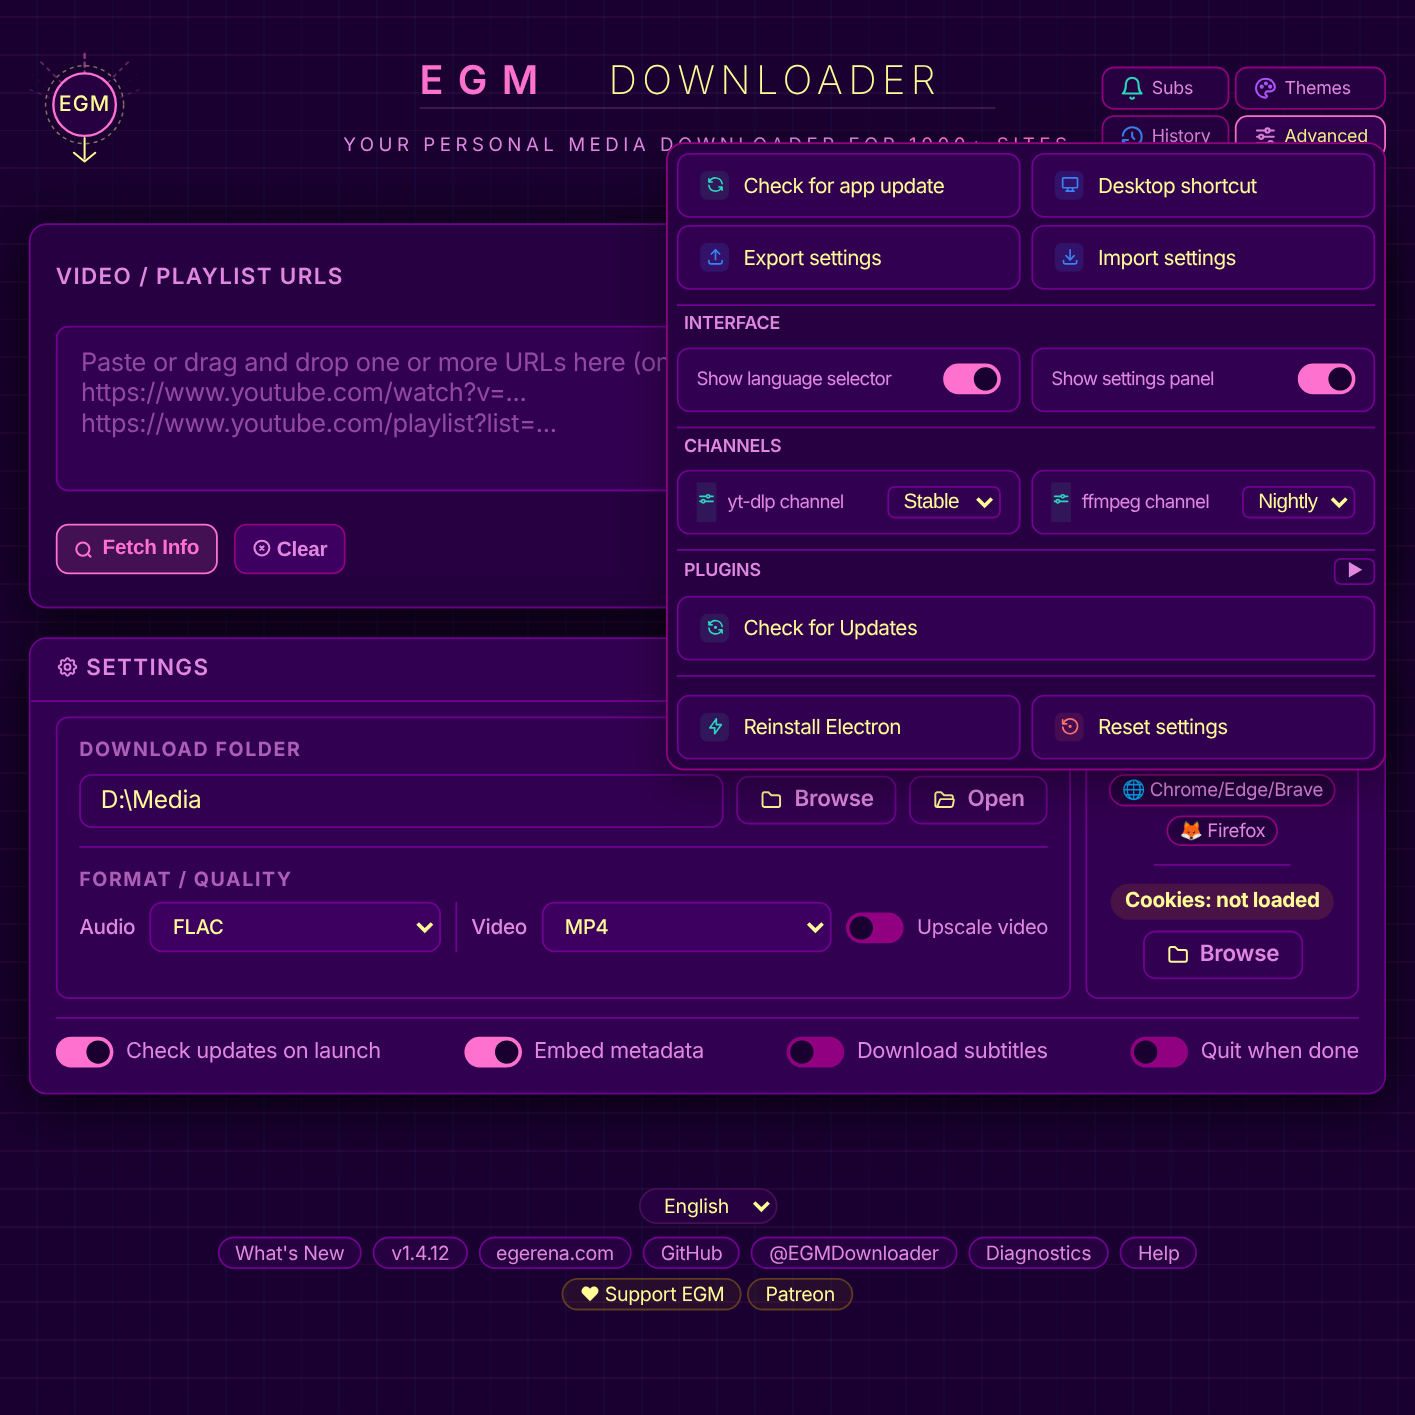
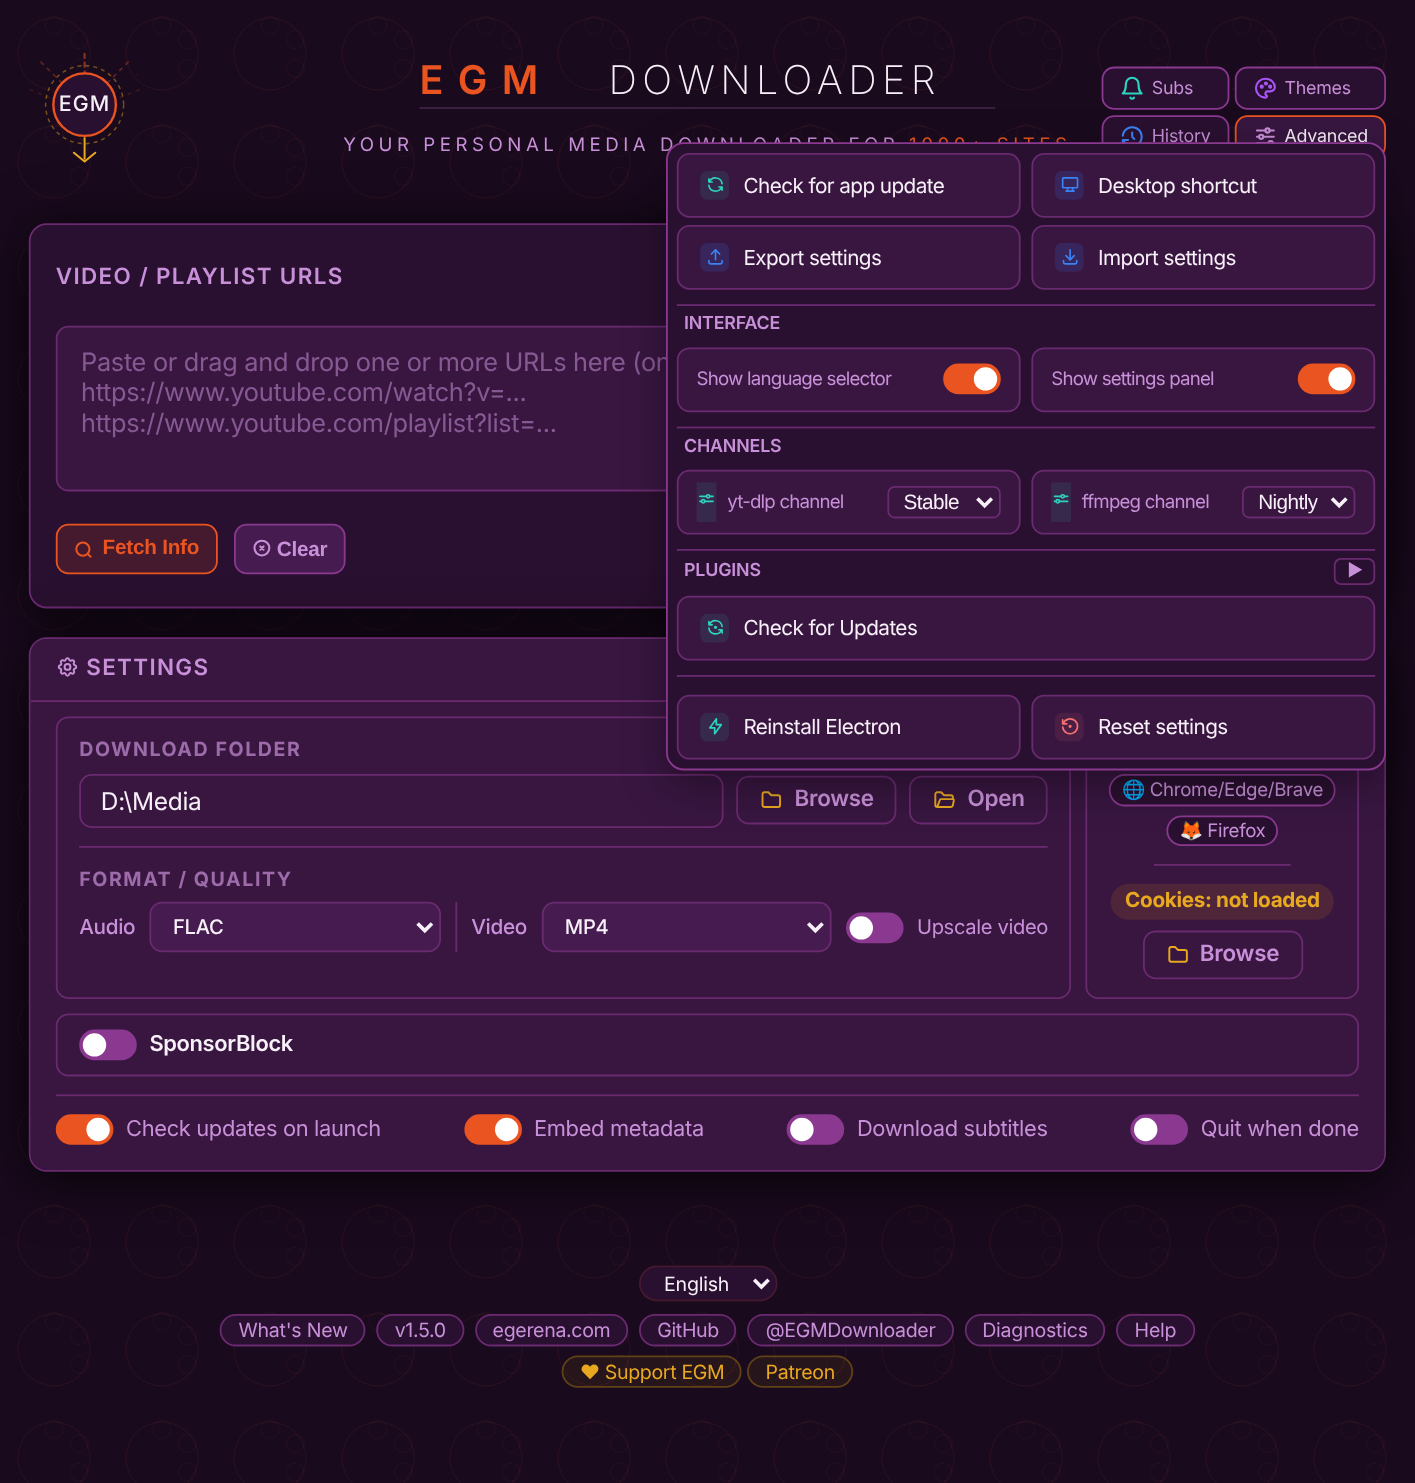
docs: README screenshots updated for v1.5.0 on testing/v1.5
Six new pictures of v1.5.0 in the same layout: main UI, advanced panel,
all themes, subscriptions, the advanced panel with the plugins list and the
download history, each in a different theme (Halloween, Ubuntu, Dialup,
Matcha, Arch Linux, Velvet Rose). They show the SponsorBlock switches in the
main window and in a subscription. The splash screen is unchanged. The
caption names the version only and the theme labels follow the pictures.

Changed region(s): [[0.0, 0.0, 0.9951, 0.9951]]

diff --git a/README.md b/README.md
@@ -83,7 +83,7 @@ A side by side look at one well known alternative, using details you can check y
 
 ## 🖼 Screenshots
 
-> 📸 *Screenshots of v1.4.12, ELECTRON STRIKES BACK. The UI is identical across Windows, macOS, and Linux.*
+> 📸 *Screenshots of v1.5.0. The UI is identical across Windows, macOS, and Linux.*
 
 <table>
   <tr>
@@ -92,12 +92,12 @@ A side by side look at one well known alternative, using details you can check y
       <br/><sub><b>Splash Screen</b></sub>
     </td>
     <td align="center" width="33%">
-      <a href="screenshots/02-main-ui.png"><img src="screenshots/02-main-ui.png" width="260" alt="Main UI, Coral Reef Light theme"/></a>
-      <br/><sub><b>Main UI</b> (Coral Reef Light theme)</sub>
+      <a href="screenshots/02-main-ui.png"><img src="screenshots/02-main-ui.png" width="260" alt="Main UI, Halloween theme"/></a>
+      <br/><sub><b>Main UI</b> (Halloween theme)</sub>
     </td>
     <td align="center" width="33%">
-      <a href="screenshots/03-advanced-panel.png"><img src="screenshots/03-advanced-panel.png" width="260" alt="Advanced Panel, Vaporwave theme"/></a>
-      <br/><sub><b>Advanced Panel</b> (Vaporwave theme)</sub>
+      <a href="screenshots/03-advanced-panel.png"><img src="screenshots/03-advanced-panel.png" width="260" alt="Advanced Panel, Ubuntu theme"/></a>
+      <br/><sub><b>Advanced Panel</b> (Ubuntu theme)</sub>
     </td>
   </tr>
 </table>
@@ -105,12 +105,12 @@ A side by side look at one well known alternative, using details you can check y
 <table>
   <tr>
     <td align="center" width="50%">
-      <a href="screenshots/04-all-themes.png"><img src="screenshots/04-all-themes.png" width="400" alt="All Themes, Amiga theme"/></a>
-      <br/><sub><b>All Themes</b> (Amiga theme)</sub>
+      <a href="screenshots/04-all-themes.png"><img src="screenshots/04-all-themes.png" width="400" alt="All Themes, Dialup theme"/></a>
+      <br/><sub><b>All Themes</b> (Dialup theme)</sub>
     </td>
     <td align="center" width="50%">
-      <a href="screenshots/05-subscriptions.png"><img src="screenshots/05-subscriptions.png" width="400" alt="Subscriptions, Big Sur theme"/></a>
-      <br/><sub><b>Subscriptions</b> (Big Sur theme)</sub>
+      <a href="screenshots/05-subscriptions.png"><img src="screenshots/05-subscriptions.png" width="400" alt="Subscriptions, Matcha theme"/></a>
+      <br/><sub><b>Subscriptions</b> (Matcha theme)</sub>
     </td>
   </tr>
 </table>
@@ -118,12 +118,12 @@ A side by side look at one well known alternative, using details you can check y
 <table>
   <tr>
     <td align="center" width="50%">
-      <a href="screenshots/06-advanced-plugins.png"><img src="screenshots/06-advanced-plugins.png" width="324" alt="Advanced Panel with the plugins list, Aurora theme"/></a>
-      <br/><sub><b>Advanced Panel, Plugins</b> (Aurora theme)</sub>
+      <a href="screenshots/06-advanced-plugins.png"><img src="screenshots/06-advanced-plugins.png" width="308" alt="Advanced Panel with the plugins list, Arch Linux theme"/></a>
+      <br/><sub><b>Advanced Panel, Plugins</b> (Arch Linux theme)</sub>
     </td>
     <td align="center" width="50%">
-      <a href="screenshots/07-download-history.png"><img src="screenshots/07-download-history.png" width="400" alt="Download History, Merlot theme"/></a>
-      <br/><sub><b>Download History</b> (Merlot theme)</sub>
+      <a href="screenshots/07-download-history.png"><img src="screenshots/07-download-history.png" width="400" alt="Download History, Velvet Rose theme"/></a>
+      <br/><sub><b>Download History</b> (Velvet Rose theme)</sub>
     </td>
   </tr>
 </table>
